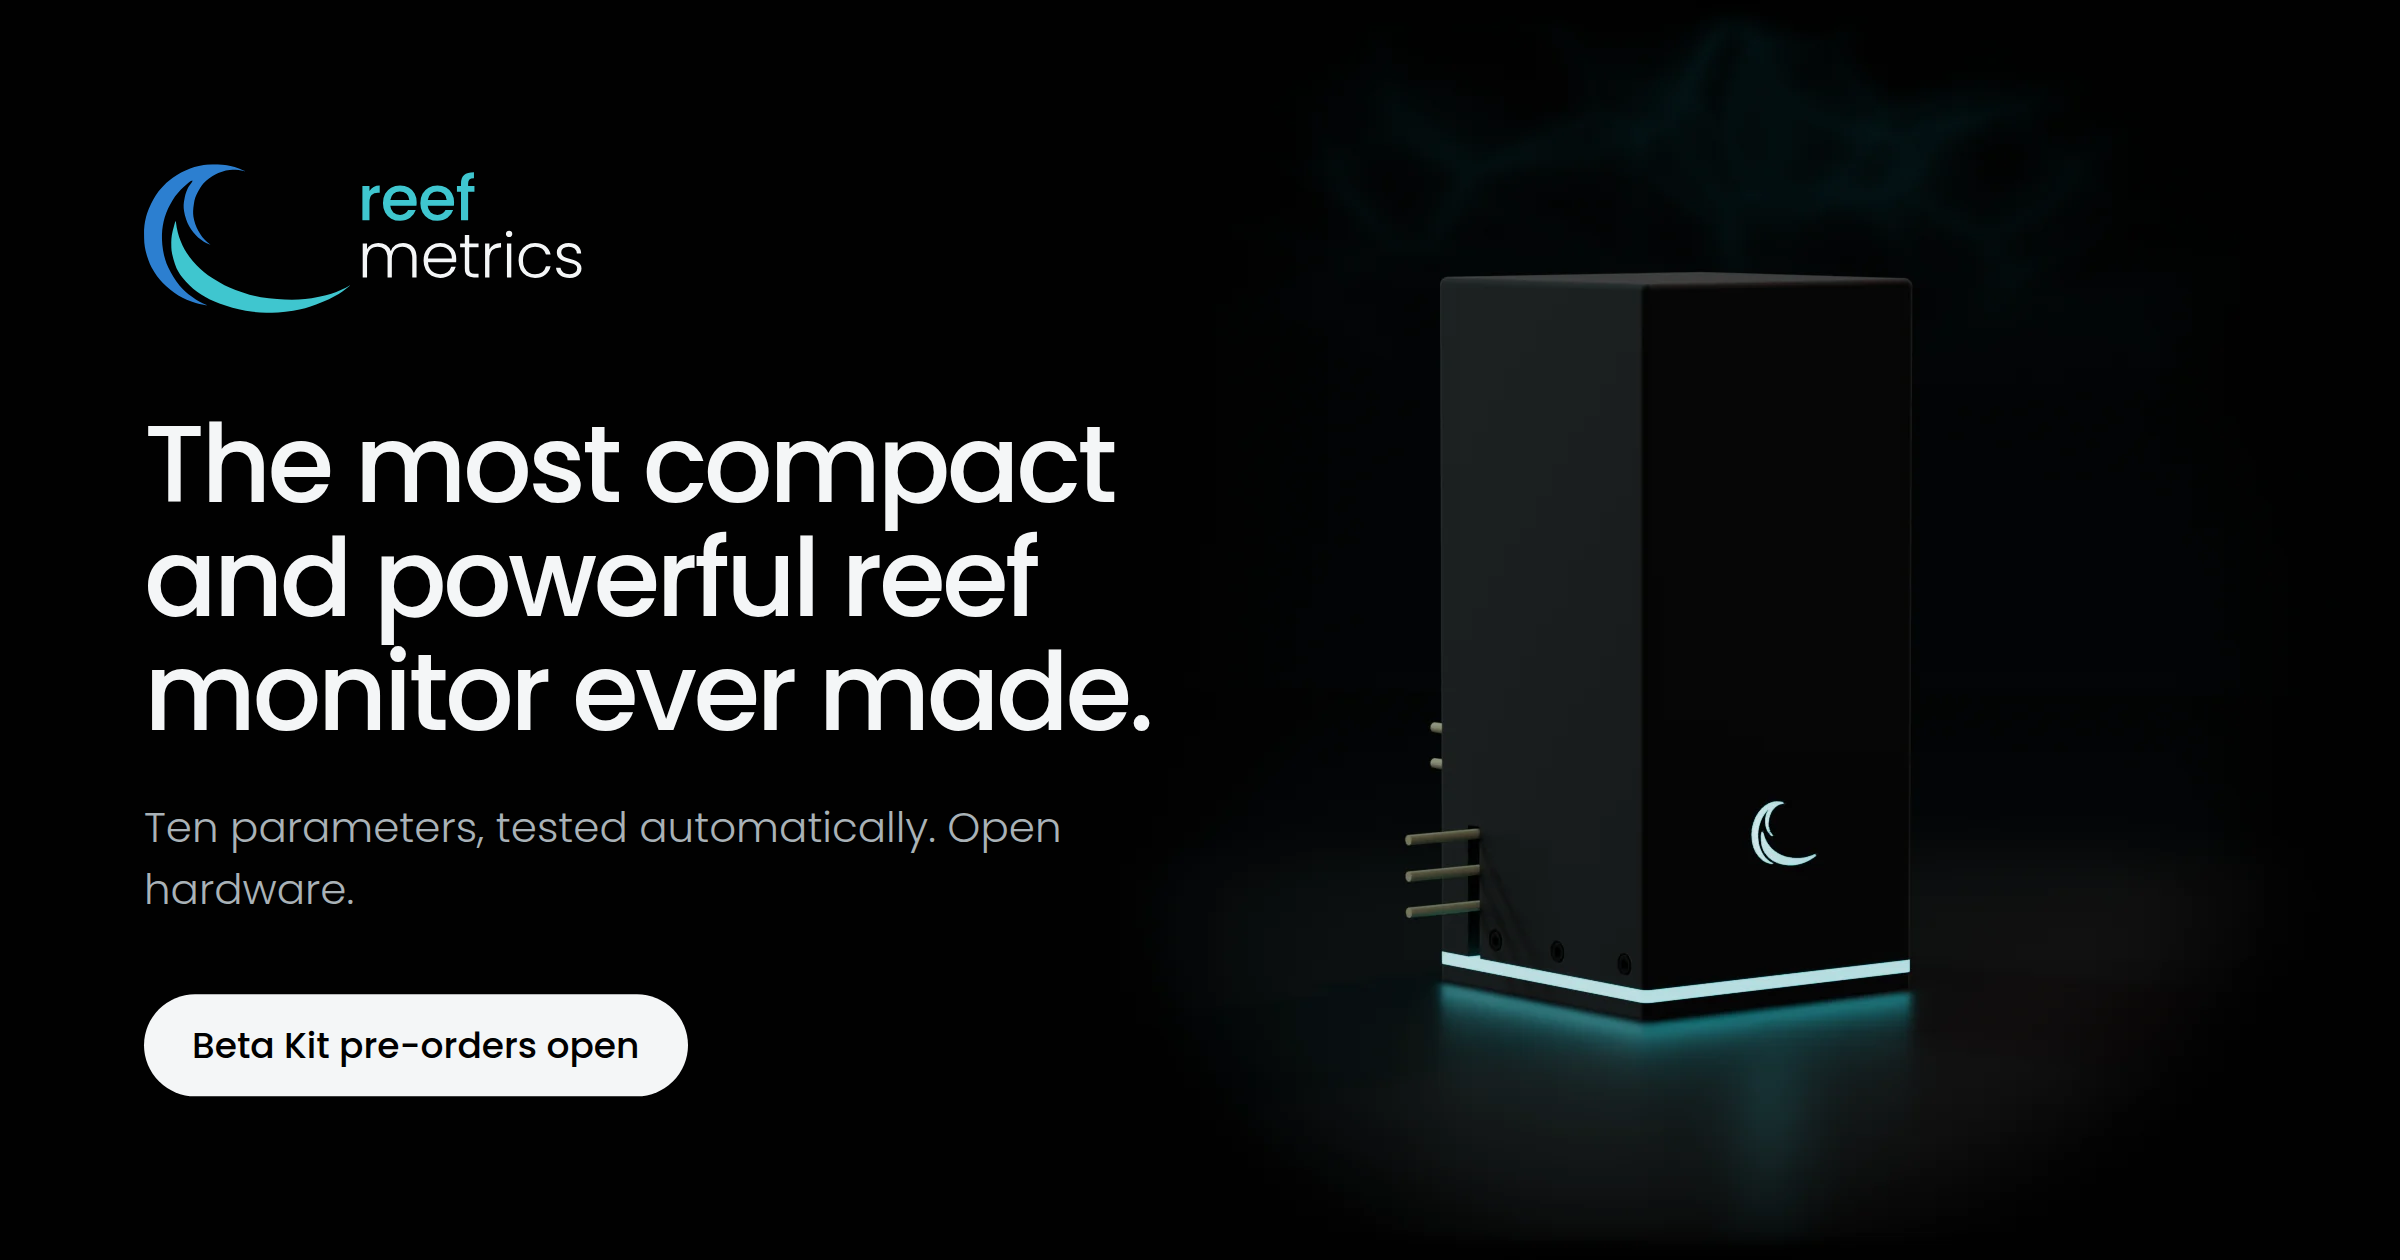
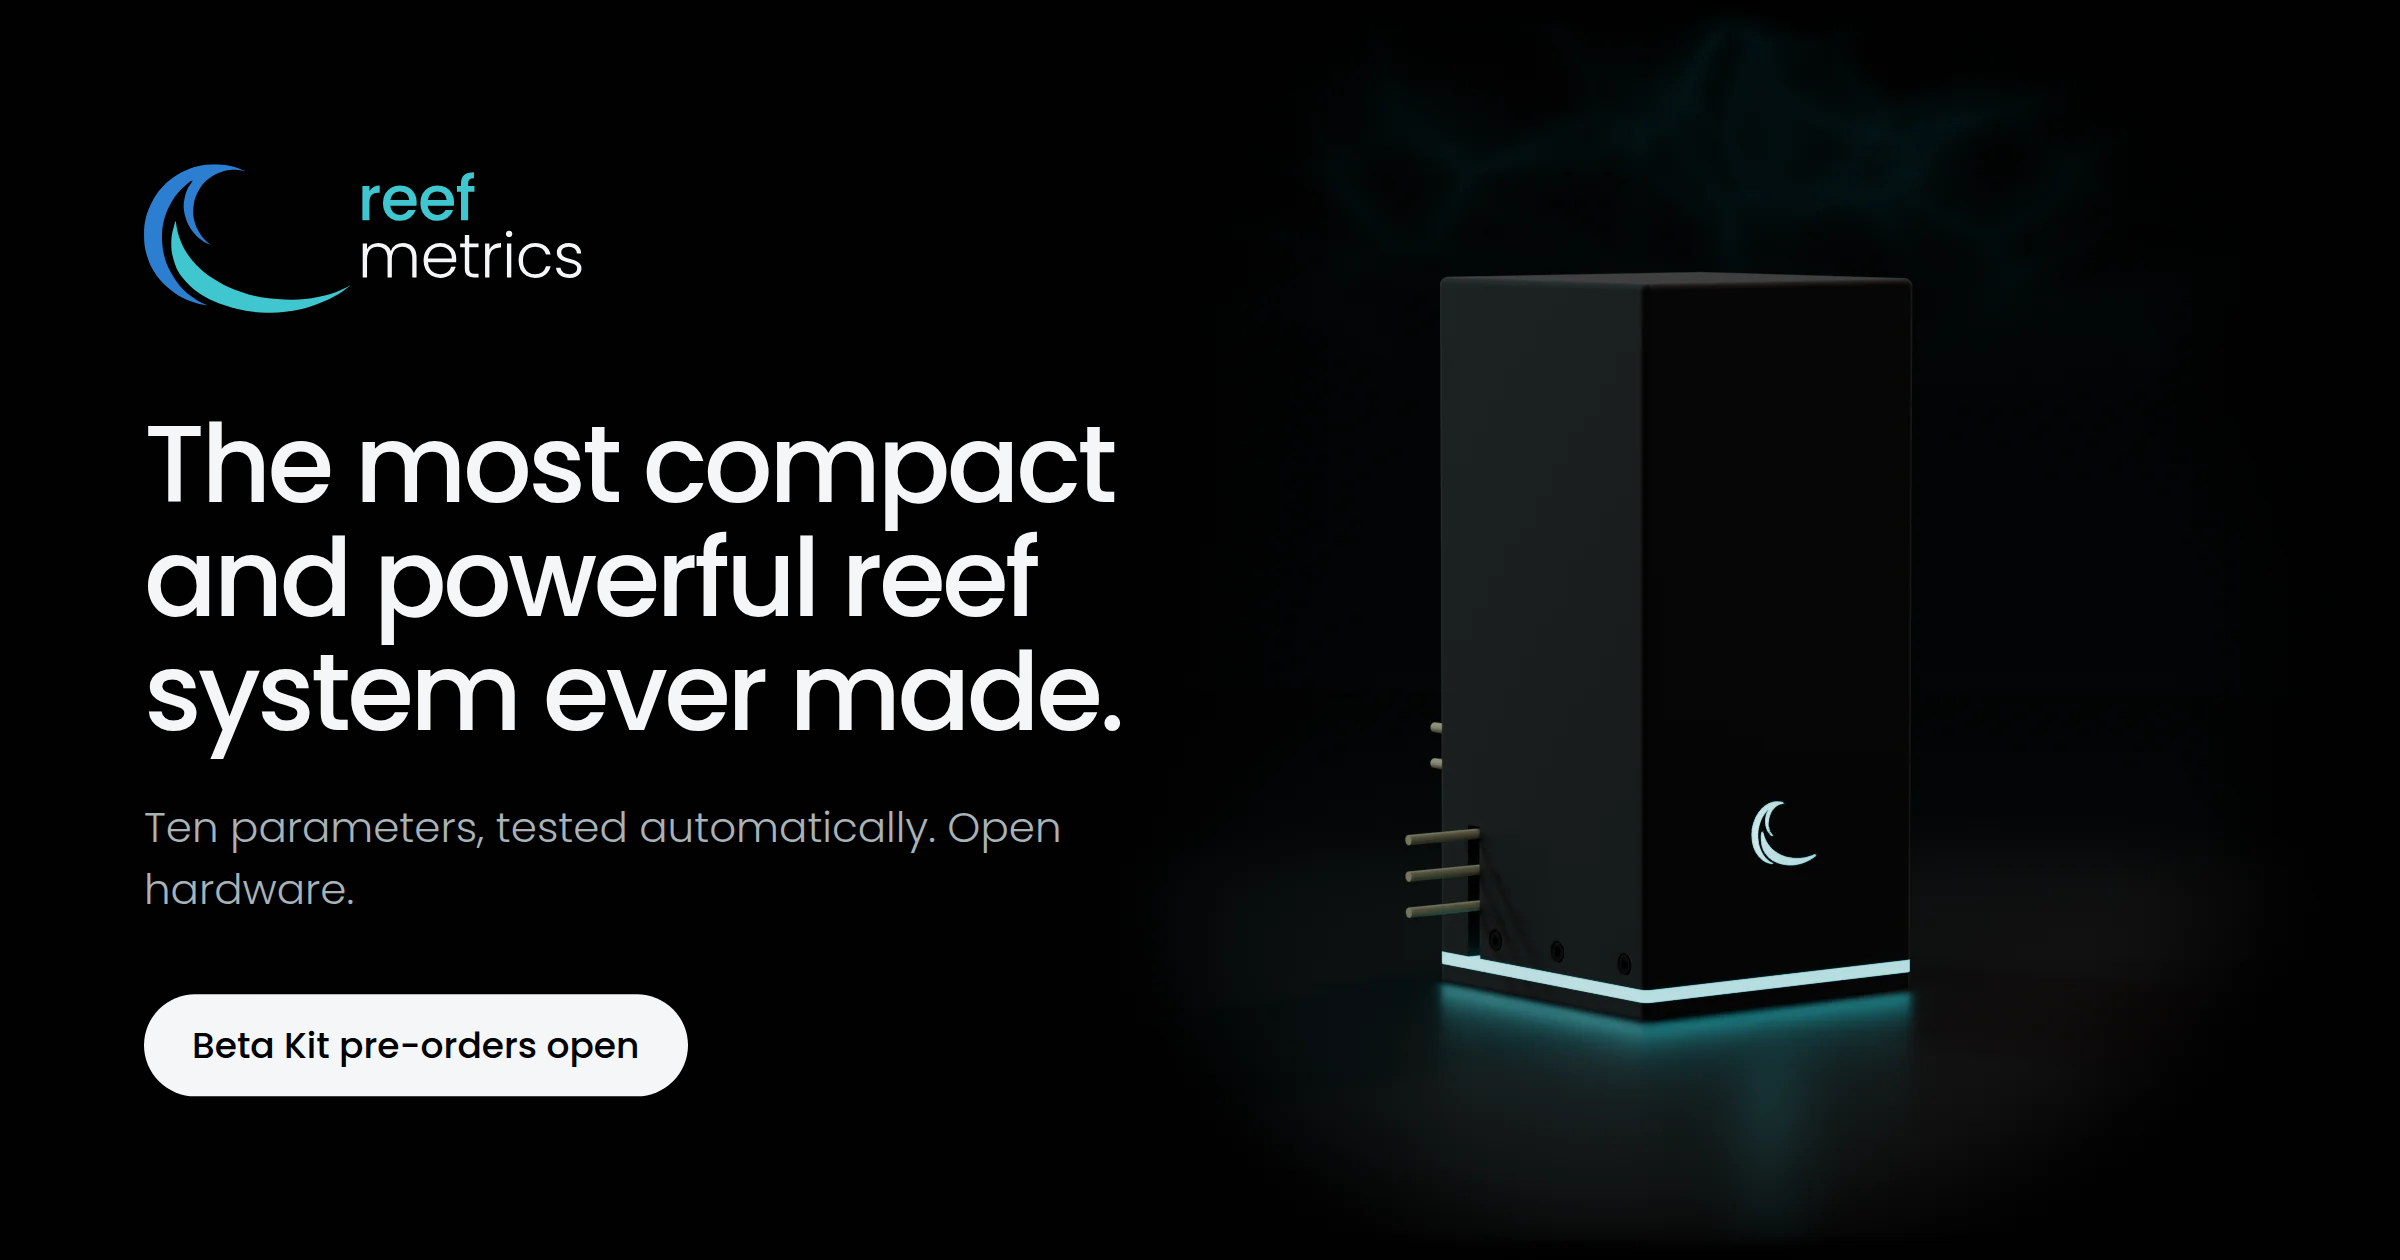
copy: headline is now the most compact and powerful reef system ever made
Claude-Session: https://claude.ai/code/session_01X9roU4yQXuoT988YzKPjXX

Changed region(s): [[0.0625, 0.4952, 0.4688, 0.5881]]

diff --git a/index.html b/index.html
@@ -4,13 +4,13 @@
   <meta charset="UTF-8" />
   <meta name="viewport" content="width=device-width, initial-scale=1.0" />
   <title>Wavie by ReefMetrics: automated reef water testing</title>
-  <meta name="description" content="Wavie is the most compact and powerful reef monitor ever made: ten water parameters, tested automatically, in open hardware. Pre-order the Wavie Beta Kit for $1,999.99, estimated to ship Q1–Q2 2027." />
+  <meta name="description" content="Wavie is the most compact and powerful reef system ever made: ten water parameters, tested automatically, in open hardware. Pre-order the Wavie Beta Kit for $1,999.99, estimated to ship Q1–Q2 2027." />
   <meta name="theme-color" content="#000000" />
   <link rel="canonical" href="https://www.reef-metrics.com/" />
   <meta property="og:type" content="website" />
   <meta property="og:site_name" content="ReefMetrics" />
   <meta property="og:title" content="Wavie by ReefMetrics: automated reef water testing" />
-  <meta property="og:description" content="Wavie is the most compact and powerful reef monitor ever made: ten water parameters, tested automatically, in open hardware. Pre-order the Wavie Beta Kit for $1,999.99, estimated to ship Q1–Q2 2027." />
+  <meta property="og:description" content="Wavie is the most compact and powerful reef system ever made: ten water parameters, tested automatically, in open hardware. Pre-order the Wavie Beta Kit for $1,999.99, estimated to ship Q1–Q2 2027." />
   <meta property="og:url" content="https://www.reef-metrics.com/" />
   <meta property="og:image" content="https://www.reef-metrics.com/assets/social-card.png" />
   <meta property="og:image:width" content="2400" />
@@ -18,7 +18,7 @@
   <meta property="og:image:alt" content="Wavie by ReefMetrics: a black tower with a glowing teal ring at its base" />
   <meta name="twitter:card" content="summary_large_image" />
   <meta name="twitter:title" content="Wavie by ReefMetrics: automated reef water testing" />
-  <meta name="twitter:description" content="Wavie is the most compact and powerful reef monitor ever made: ten water parameters, tested automatically, in open hardware. Pre-order the Wavie Beta Kit for $1,999.99, estimated to ship Q1–Q2 2027." />
+  <meta name="twitter:description" content="Wavie is the most compact and powerful reef system ever made: ten water parameters, tested automatically, in open hardware. Pre-order the Wavie Beta Kit for $1,999.99, estimated to ship Q1–Q2 2027." />
   <meta name="twitter:image" content="https://www.reef-metrics.com/assets/social-card.png" />
   <link rel="icon" href="/assets/brand/favicon.svg?v=6" type="image/svg+xml" />
   <link rel="icon" href="/assets/favicon-32.png?v=6" sizes="32x32" type="image/png" />
@@ -77,7 +77,7 @@
       </picture>
       <div class="wrap">
         <div class="hero-copy">
-          <h1>The most compact and powerful reef monitor ever made.</h1>
+          <h1>The most compact and powerful reef system ever made.</h1>
           <p class="lede">Wavie tests your reef's water automatically and reports to your phone.</p>
           <a class="tests-cue" href="#tests">Scroll to see what it tests</a>
           <div class="facts" id="tests">

diff --git a/assets/social-card.html b/assets/social-card.html
@@ -21,7 +21,7 @@
   <img class="render" src="img/social.webp" alt="" />
   <div class="copy">
     <img class="logo" src="brand/logo-stacked.svg" alt="ReefMetrics" />
-    <h1>The most compact and powerful reef monitor ever made.</h1>
+    <h1>The most compact and powerful reef system ever made.</h1>
     <p>Ten parameters, tested automatically. Open hardware.</p>
     <span class="offer">Beta Kit pre-orders open</span>
   </div>
